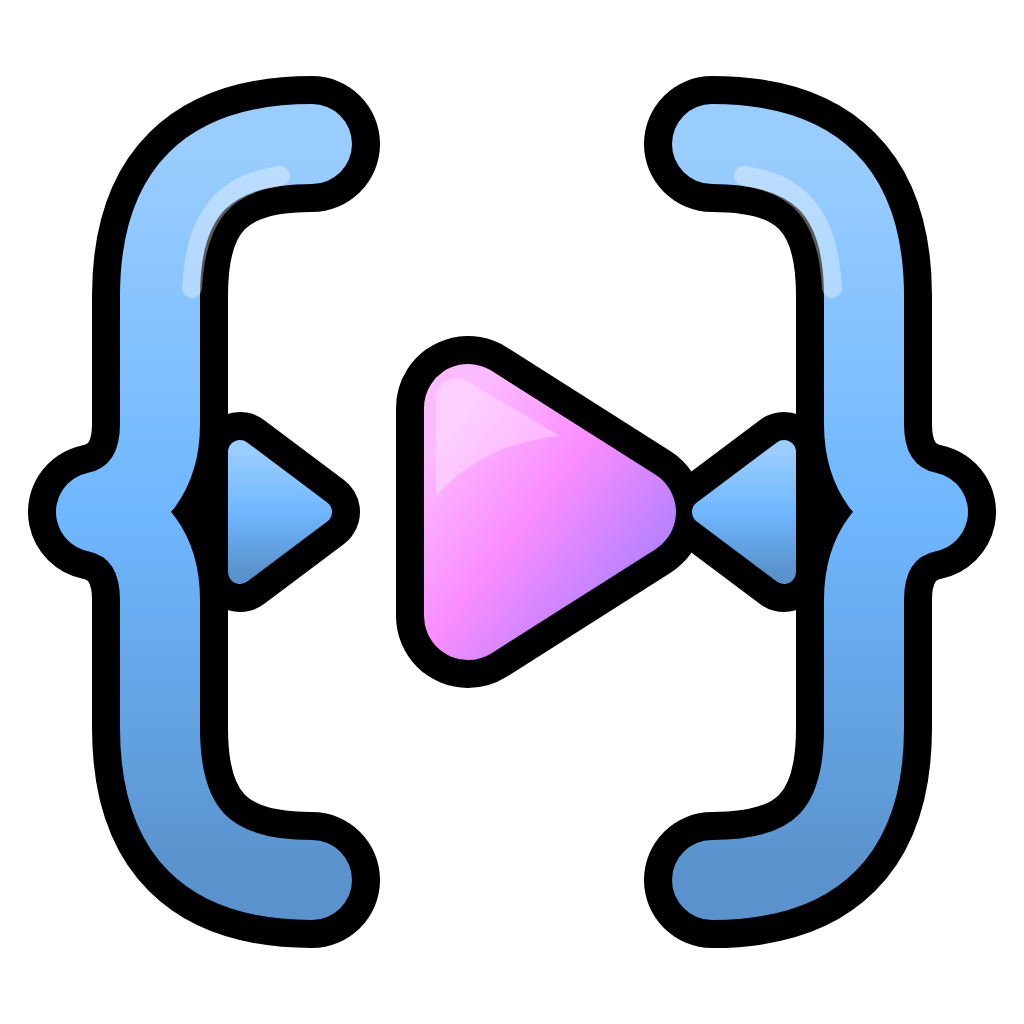
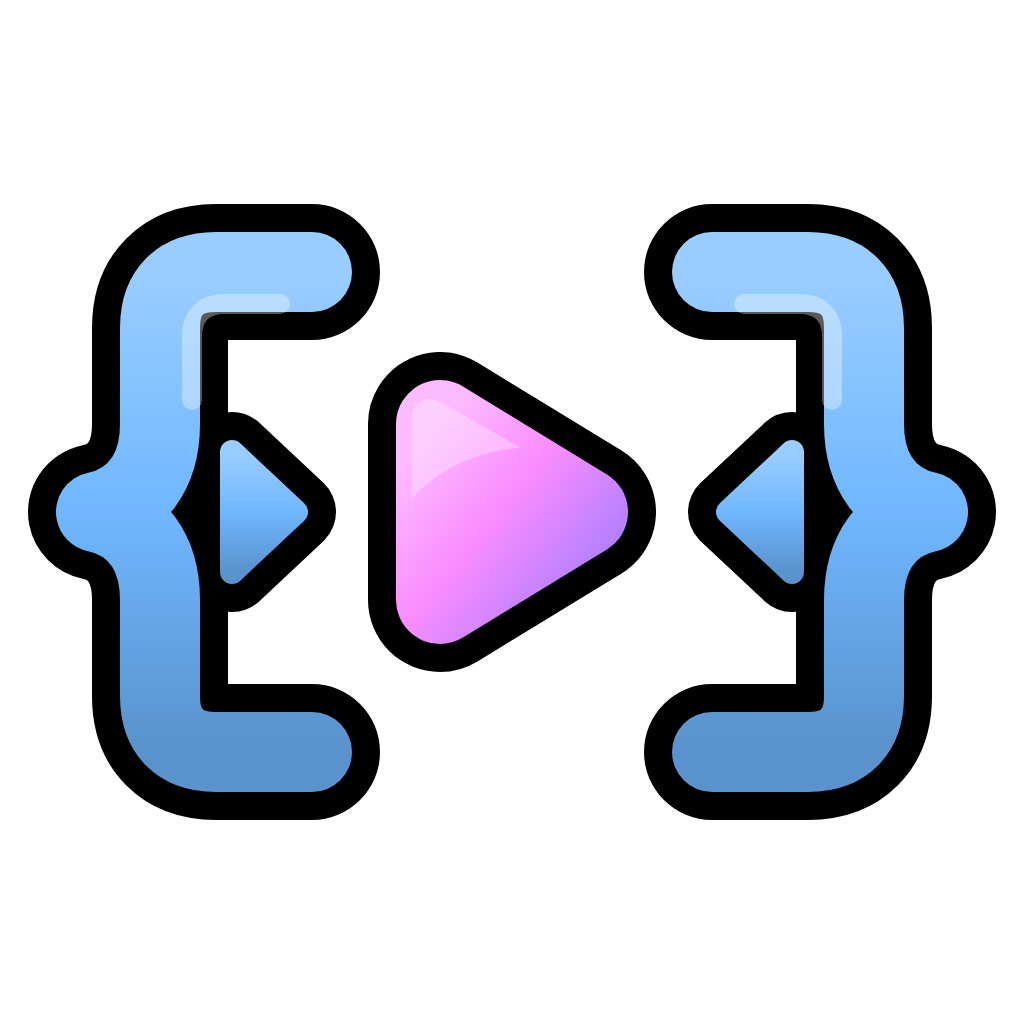
Program simgesi: alcak dikdortgen, belirgin koseler, ortalanmis ucgen

diff --git a/CHANGELOG.md b/CHANGELOG.md
@@ -7,6 +7,10 @@ ship as part of it.
 
 ## [Unreleased]
 
+### Changed
+
+- Program icon: lower and wider (about 16:10), with sharper bracket corners and the play triangle centred between the two arrows.
+
 ## [0.13.0] - 2026-09-27
 
 ### Changed
